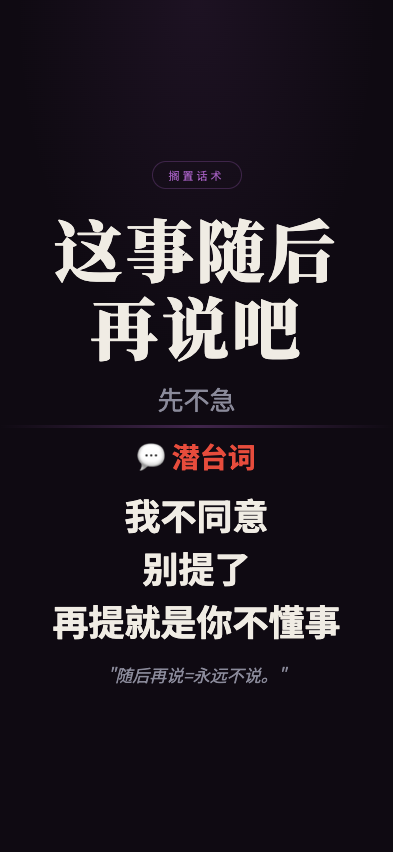
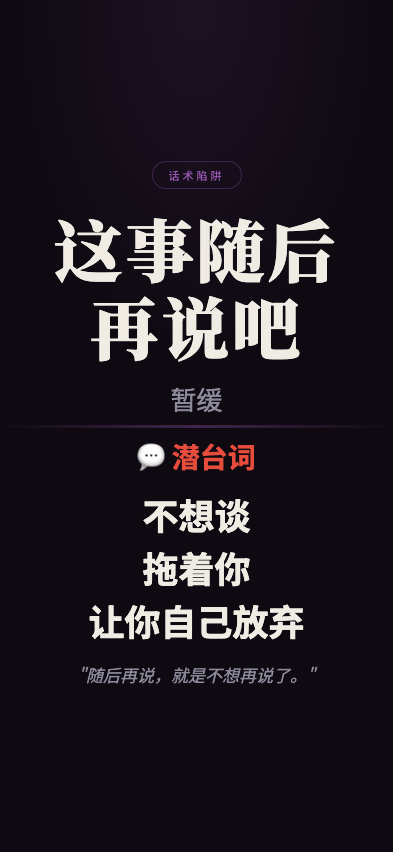
feat: 职场生存法则 screenshot - zheshisuihouzaishuoba

Changed region(s): [[0.1221, 0.5798, 0.855, 0.8239], [0.3969, 0.4577, 0.6107, 0.4883], [0.4275, 0.1831, 0.5802, 0.2136]]

diff --git a/wuliao-tools/tools/biz-speak/scenes/zheshisuihouzaishuoba.html b/wuliao-tools/tools/biz-speak/scenes/zheshisuihouzaishuoba.html
@@ -41,19 +41,19 @@
 </head>
 <body>
   <div class="top">
-    <div class="tag">搁置话术</div>
+    <div class="tag">话术陷阱</div>
     <div class="main-title">这事随后再说吧</div>
-    <div class="sub-title">先不急</div>
+    <div class="sub-title">暂缓</div>
   </div>
   <div class="divider"></div>
   <div class="bottom">
     <div class="truth-label">💬 潜台词</div>
     <div class="truth-lines">
-      <div class="truth-line">我不同意</div>
-      <div class="truth-line">别提了</div>
-      <div class="truth-line">再提就是你不懂事</div>
+      <div class="truth-line">不想谈</div>
+      <div class="truth-line">拖着你</div>
+      <div class="truth-line">让你自己放弃</div>
     </div>
-    <div class="quote">"随后再说=永远不说。"</div>
+    <div class="quote">"随后再说，就是不想再说了。"</div>
   </div>
 </body>
 </html>
